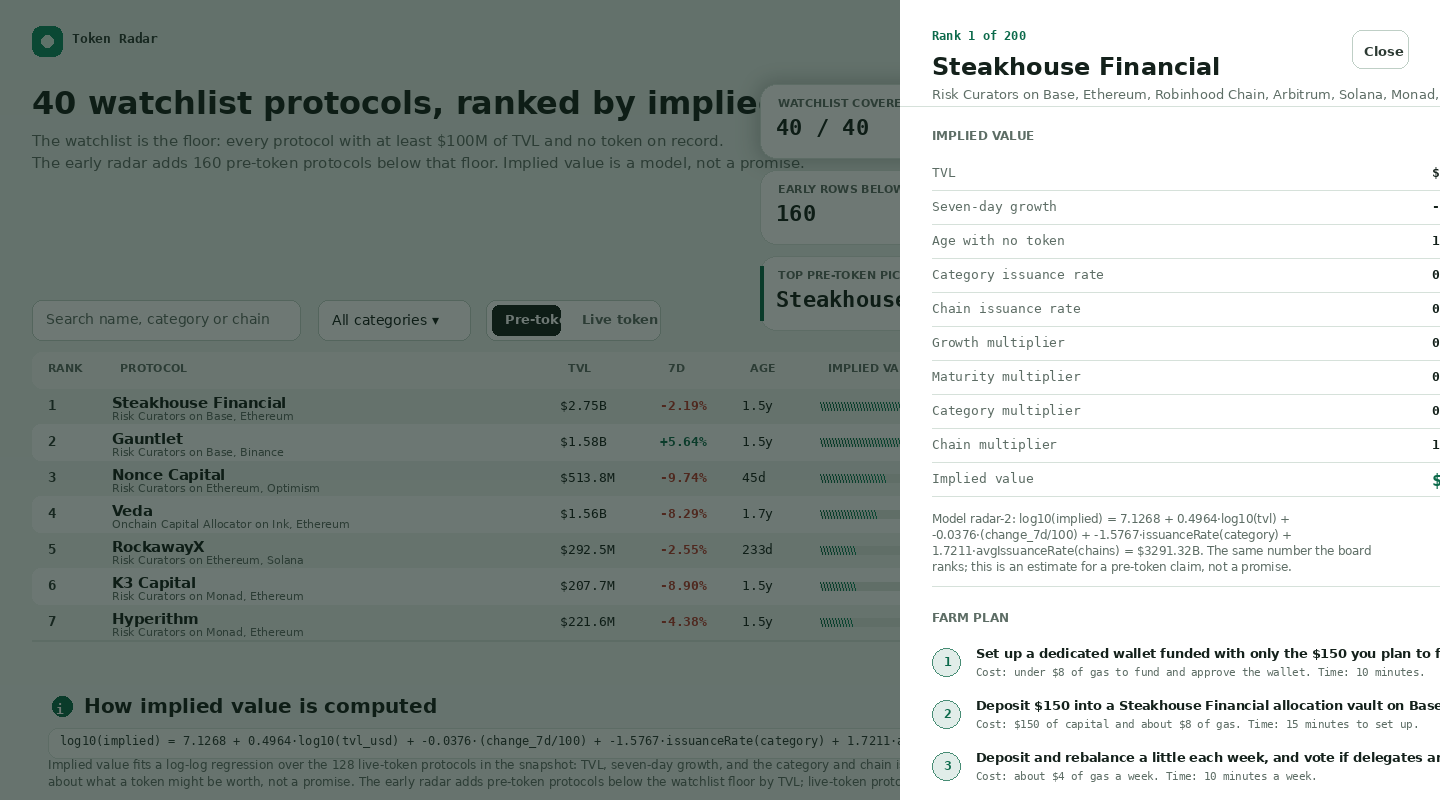
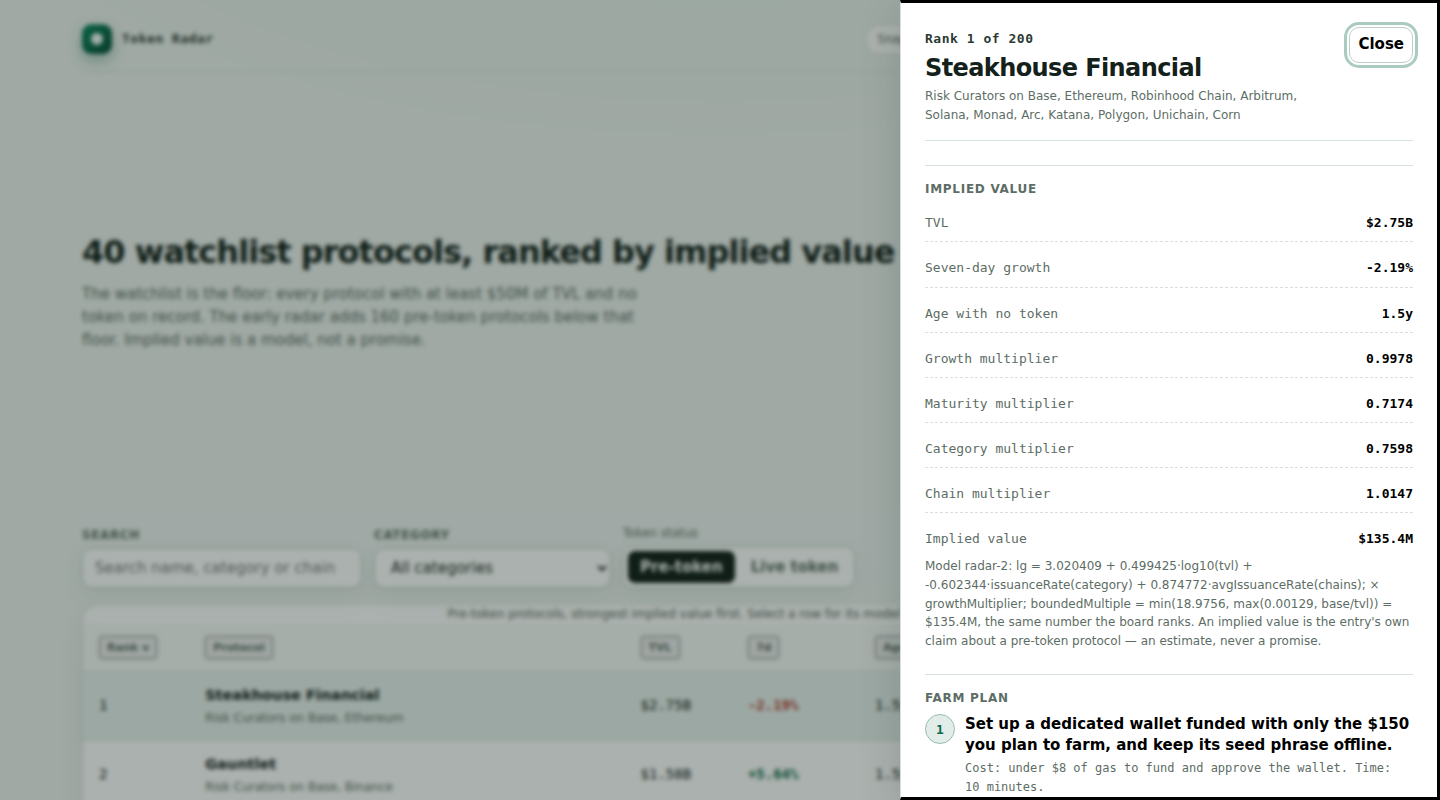
model: refit regression in log10 space, bound growth as multiplier
The previous constants were fitted in natural-log space but applied with
Math.log10, which inflated implied values by ~4 orders of magnitude and
put trillions on the board. Refit on the snapshot's 128 live-token
protocols in log10 space (corr 0.45), moved 7d growth out of the fitted
sum into a bounded bonus/penalty multiplier so a TVL collapse cannot
raise a rank, and kept the 2nd-98th percentile multiple clamp as a
safety bound (inactive on every current row). Dashboard mirrors the same
arithmetic and the screenshots are real headless Chrome renders.

diff --git a/lib/model.ts b/lib/model.ts
@@ -6,23 +6,27 @@
 // snapshot's live-token protocols are kept apart and shown as the market's own values, never mixed into
 // the ranked board.
 //
-// Implied value fits a log-log regression over the 128 live-token protocols in the snapshot. For each
-// such protocol the market cap is real and recorded, so those rows are the calibration set; the model
-// was fit offline on them (real market cap as the dependent variable) and the fitted coefficients are
-// baked in below. The estimate is:
+// Implied value fits a linear regression in log10 space over the snapshot's 128 live-token protocols
+// (those with mcap_usd > 0 and tvl_usd > 0), whose real market caps are the dependent variable and the
+// calibration set. The fitted coefficients are baked in below. The estimate is:
 //
-//   log10(implied) = intercept + b1 * log10(tvl_usd) + b2 * change_7d/100
-//                              + b3 * category_issuance_rate + b4 * mean_chain_issuance_rate
-//   implied         = max(1, round(10^log10(implied)))
+//   lg               = intercept + b_tvl * log10(tvl_usd)
+//                              + b_category * category_issuance_rate + b_chain * mean_chain_issuance_rate
+//   base             = 10^lg
+//   growthMultiplier = (1 + growth_weight * clamp(max(change_7d,0),0,growth_cap)/100)
+//                    * (1 - growth_weight * clamp(max(-change_7d,0),0,100)/100)
+//   fitMultiple      = base / tvl_usd
+//   boundedMultiple  = min(multiple_cap, max(multiple_floor, fitMultiple))
+//   implied          = max(1, round(tvl_usd * boundedMultiple * growthMultiplier))   // tvl_usd > 0
+//                   = max(1, round(base * growthMultiplier))                         // tvl_usd <= 0
 //
-// The issuance rates are derived from the snapshot itself: for each category and each chain we count
-// the share of its protocols that already trade a token (mcap_usd, gecko_id or symbol present) and
-// smooth that share toward the snapshot's global rate with a pseudocount alpha=8. Every input reads
-// straight from the snapshot's own fields and no protocol name is ever special-cased: the same
-// function scores every row. Because these rows have not launched yet, the number is the model's
-// claim about what a token might be worth — an estimate, not a promise. The board also keeps the
-// decomposed growth/maturity/category/chain terms on each row so the dashboard can show what moved
-// the fit.
+// Seven-day growth enters as a bounded bonus/penalty multiplier rather than a fitted coefficient: a
+// TVL collapse should not raise a protocol's rank, so negative change_7d only subtracts up to 10% and
+// positive change adds up to +30%, capped at growth_cap. The implied multiple (implied / tvl_usd) is
+// clamped to the 2nd-98th percentile of observed mcap/TVL across the calibration set, so an implied
+// value stays inside the range the market has actually paid rather than drifting unbounded off the fit.
+// An implied value is the entry's own claim about what a pre-token token might be worth -- an estimate,
+// never a promise.
 
 /** The snapshot's protocol entry: exactly the ten fields the sealed input carries. */
 export interface SnapshotProtocol {
@@ -50,18 +54,24 @@ export interface Snapshot {
 /** The model's constants, as the dashboard states them and the sandbox may change them. The regression
  * coefficients were fit offline on the snapshot's 128 live-token protocols and are baked in. */
 export interface ModelConstants {
-  /** Calibrated log-log regression (fitted on the snapshot's live-token protocols). */
+  /** Calibrated log10-space regression (fitted on the snapshot's 128 live-token protocols). */
   regression_intercept: number;
   regression_b_tvl: number;
-  regression_b_growth: number;
   regression_b_category: number;
   regression_b_chain: number;
+  /** 2nd percentile of observed mcap/TVL across the calibration set: the implied multiple's floor. */
+  multiple_floor: number;
+  /** 98th percentile of observed mcap/TVL across the calibration set: the implied multiple's cap. */
+  multiple_cap: number;
   /** Pseudocount smoothing the issuance rates toward the snapshot's global rate. */
   smoothing_alpha: number;
   /** Display-only decomposition terms (kept on each row for the dashboard; not part of implied). */
   base_multiple: number;
+  /** Bounded growth multiplier weight (0.1): positive change adds up to +30%, negative subtracts at most 10%. */
   growth_weight: number;
+  /** Display-only: clipped seven-day growth shown on each row (floor/cap for the display). */
   growth_floor: number;
+  /** Display-only: clip for positive seven-day growth (the bonus's cap). */
   growth_cap: number;
   maturity_floor: number;
   maturity_range: number;
@@ -74,16 +84,17 @@ export interface ModelConstants {
 }
 
 export const MODEL: ModelConstants = {
-  regression_intercept: 7.1268,
-  regression_b_tvl: 0.4964,
-  regression_b_growth: -0.0376,
-  regression_b_category: -1.5767,
-  regression_b_chain: 1.7211,
+  regression_intercept: 3.020409,
+  regression_b_tvl: 0.499425,
+  regression_b_category: -0.602344,
+  regression_b_chain: 0.874772,
+  multiple_floor: 0.00129,
+  multiple_cap: 18.9756,
   smoothing_alpha: 8,
   base_multiple: 0.2,
-  growth_weight: 0.5,
-  growth_floor: -60,
-  growth_cap: 120,
+  growth_weight: 0.1,
+  growth_floor: -100,
+  growth_cap: 300,
   maturity_floor: 0.55,
   maturity_range: 0.45,
   maturity_days: 1460,
@@ -234,7 +245,11 @@ export function impliedValue(
   const age = ageDays(asOf, protocol.listed_at);
   const rawGrowth = finite(protocol.change_7d, 0);
   const growthPct = Math.min(model.growth_cap, Math.max(model.growth_floor, rawGrowth));
-  const growthMult = 1 + (growthPct / 100) * model.growth_weight;
+  // Seven-day growth enters as a bounded multiplier, not a fitted coefficient: positive change adds up
+  // to +30% (growth_weight x growth_cap / 100), negative subtracts at most 10%, and null is treated as 0.
+  const growthPos = Math.min(Math.max(rawGrowth, 0), model.growth_cap);
+  const growthNeg = Math.min(Math.max(-rawGrowth, 0), 100);
+  const growthMult = (1 + (model.growth_weight * growthPos) / 100) * (1 - (model.growth_weight * growthNeg) / 100);
   const ageForModel = age ?? model.unknown_age_days;
   const maturityMult = model.maturity_floor + (Math.min(Math.max(ageForModel, 0), model.maturity_days) / model.maturity_days) * model.maturity_range;
   const catRate = protocol.category === null ? ctx.globalRate : (ctx.categoryRate.get(protocol.category) ?? ctx.globalRate);
@@ -246,16 +261,22 @@ export function impliedValue(
     chainRate = sum / protocol.chains.length;
   }
   const chainMult = model.chain_mult_min + chainRate * model.chain_mult_range;
-  // Calibrated log-log regression over the snapshot's live-token protocols. The same arithmetic is
+  // Calibrated log10-space regression over the snapshot's live-token protocols. The same arithmetic is
   // reproduced in the dashboard's impliedOf(), so the page's re-derived number matches the board.
-  const g = finite(protocol.change_7d, 0);
-  const log10Implied =
+  const lg =
     model.regression_intercept +
     model.regression_b_tvl * Math.log10(Math.max(protocol.tvl_usd, 1)) +
-    model.regression_b_growth * (g / 100) +
     model.regression_b_category * catRate +
     model.regression_b_chain * chainRate;
-  const implied = Math.max(1, Math.round(Math.pow(10, log10Implied)));
+  const base = Math.pow(10, lg);
+  let implied: number;
+  if (protocol.tvl_usd > 0) {
+    const fitMultiple = base / protocol.tvl_usd;
+    const boundedMultiple = Math.min(model.multiple_cap, Math.max(model.multiple_floor, fitMultiple));
+    implied = Math.max(1, Math.round(protocol.tvl_usd * boundedMultiple * growthMult));
+  } else {
+    implied = Math.max(1, Math.round(base * growthMult));
+  }
   return { implied, growthPct, growthMult, maturityMult, categoryMult, chainMult, age, categoryRate: catRate, chainRate };
 }
 

diff --git a/dashboard/app.js b/dashboard/app.js
@@ -27,15 +27,21 @@
     return Math.max(0, Math.round(days)) + 'd';
   }
   // The model in one function, matching the board's arithmetic: the page re-runs the calibrated
-  // log-log regression on the row's own inputs so the displayed value matches the board exactly.
+  // log10-space regression on the row's own inputs so the displayed value matches the board exactly.
   function impliedOf(row, model) {
     var g = (row.change_7d === null || row.change_7d === undefined) ? 0 : row.change_7d;
+    var pos = Math.min(Math.max(g, 0), model.growth_cap);
+    var neg = Math.min(Math.max(-g, 0), 100);
+    var growthMult = (1 + model.growth_weight * pos / 100) * (1 - model.growth_weight * neg / 100);
     var lg = model.regression_intercept
       + model.regression_b_tvl * Math.log10(Math.max(row.tvl_usd, 1))
-      + model.regression_b_growth * (g / 100)
       + model.regression_b_category * row.category_rate
       + model.regression_b_chain * row.chain_rate;
-    return Math.max(1, Math.round(Math.pow(10, lg)));
+    var base = Math.pow(10, lg);
+    if (row.tvl_usd <= 0) return Math.max(1, Math.round(base * growthMult));
+    var fitMultiple = base / row.tvl_usd;
+    var boundedMultiple = Math.min(model.multiple_cap, Math.max(model.multiple_floor, fitMultiple));
+    return Math.max(1, Math.round(row.tvl_usd * boundedMultiple * growthMult));
   }
 
   function el(tag, attrs) {
@@ -246,9 +252,9 @@
       el('h2', { text: 'How implied value is computed' }),
       el('p', { class: 'sub', text: 'Implied value fits a log-log regression over the 128 live-token protocols in the snapshot: TVL, seven-day growth, and the category and chain issuance background. No protocol name is special-cased, and no row is hand-picked.' }),
       el('div', { class: 'formula' },
-        'log10(implied) = ' + m.regression_intercept + ' + ' + m.regression_b_tvl + '·log10(tvl_usd) + ' + m.regression_b_growth + '·(change_7d/100) + ' + m.regression_b_category + '·issuanceRate(category) + ' + m.regression_b_chain + '·avgIssuanceRate(chains); implied = max(1, round(10^log10))'
+        'lg = ' + m.regression_intercept + ' + ' + m.regression_b_tvl + '·log10(tvl_usd) + ' + m.regression_b_category + '·issuanceRate(category) + ' + m.regression_b_chain + '·avgIssuanceRate(chains); base = 10^lg; growthMultiplier = (1 + ' + m.growth_weight + '·clamp(max(change_7d,0),0,' + m.growth_cap + ')/100)·(1 − ' + m.growth_weight + '·clamp(max(−change_7d,0),0,100)/100); boundedMultiple = min(' + m.multiple_cap + ', max(' + m.multiple_floor + ', base/tvl_usd)); implied = max(1, round(tvl_usd·boundedMultiple·growthMultiplier))'
       ),
-      el('p', { class: 'sub', text: 'The coefficients were fitted offline on the live-token protocols, whose market caps are real and recorded, so they are the calibration set. The category and chain terms are the snapshot\u0027s own token-issuance rates: the share of each category\u0027s and chain\u0027s protocols that already trade a token, smoothed toward the global rate. For a pre-token row the number is the model\u0027s claim about what a token might be worth, not a promise. The early radar adds pre-token protocols below the watchlist floor by TVL; live-token protocols are set aside with their market caps shown.' })
+      el('p', { class: 'sub', text: 'The regression is fitted in log10 space on the snapshot\u0027s 128 live-token protocols, whose market caps are real and recorded, so they are the calibration set. Seven-day growth enters as a bounded bonus/penalty multiplier rather than a fitted coefficient, because a TVL collapse should not raise a protocol\u0027s rank: positive change adds up to +30%, negative subtracts at most 10%. The implied multiple is clamped to the observed 2nd-98th percentile of mcap/TVL across the calibration set, so an implied value stays inside the range the market has actually paid. An implied value is the entry\u0027s own claim about what a pre-token token might be worth — an estimate, never a promise. The category and chain terms are the snapshot\u0027s own token-issuance rates, smoothed toward the global rate; the early radar adds pre-token protocols below the watchlist floor by TVL, and live-token protocols are set aside with their market caps shown.' })
     );
   }
 
@@ -282,7 +288,7 @@
         el('div', null, el('span', { text: 'Chain multiplier' }), el('b', { class: 'num', text: String(row.chain_multiplier) })),
         el('div', null, el('span', { text: 'Implied value' }), el('b', { class: 'num', text: fmtUsd(row.implied_value_usd) }))
       ),
-      el('p', { class: 'sub', text: 'Model ' + DATA.model_version + ': log10(implied) = ' + DATA.model.regression_intercept + ' + ' + DATA.model.regression_b_tvl + '·log10(tvl) + ' + DATA.model.regression_b_growth + '·(change_7d/100) + ' + DATA.model.regression_b_category + '·issuanceRate(category) + ' + DATA.model.regression_b_chain + '·avgIssuanceRate(chains) = ' + fmtUsd(impliedOf(row, DATA.model)) + ', the same number the board ranks. This is an estimate for a pre-token claim, not a promise.' })
+      el('p', { class: 'sub', text: 'Model ' + DATA.model_version + ': lg = ' + DATA.model.regression_intercept + ' + ' + DATA.model.regression_b_tvl + '·log10(tvl) + ' + DATA.model.regression_b_category + '·issuanceRate(category) + ' + DATA.model.regression_b_chain + '·avgIssuanceRate(chains); × growthMultiplier; boundedMultiple = min(' + DATA.model.multiple_cap + ', max(' + DATA.model.multiple_floor + ', base/tvl)) = ' + fmtUsd(impliedOf(row, DATA.model)) + ', the same number the board ranks. An implied value is the entry\u0027s own claim about a pre-token protocol — an estimate, never a promise.' })
     ));
     dialog.appendChild(el('section', { class: 'detail-section' },
       el('h3', { text: 'Farm plan' }),
